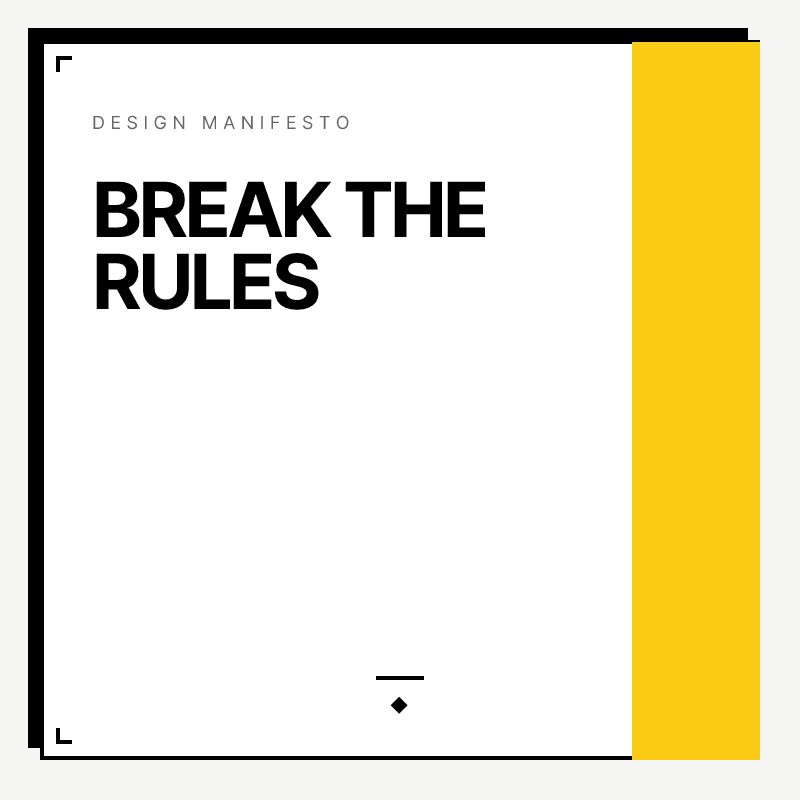
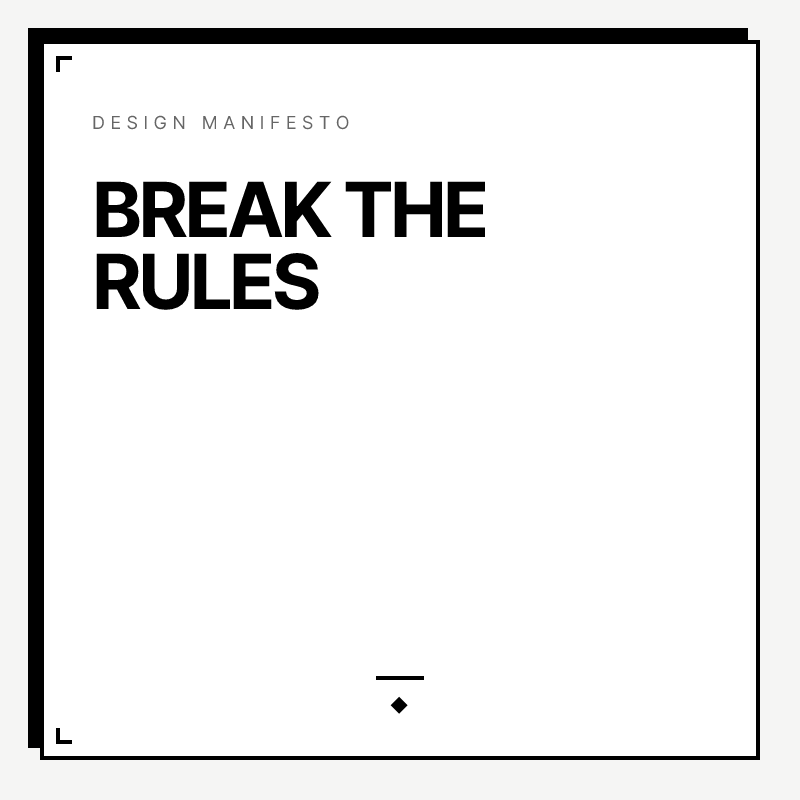
chore: sync

Changed region(s): [[0.7812, 0.0312, 0.9688, 0.9688]]

diff --git a/src/runtime/server/og-image/satori/plugins/unocss.ts b/src/runtime/server/og-image/satori/plugins/unocss.ts
@@ -1,6 +1,17 @@
 import type { VNode } from '../../../../types'
 import { defineSatoriTransformer } from '../utils'
 
+// Tailwind/UnoCSS breakpoints + social platform sizes
+const BREAKPOINTS: Record<string, number> = {
+  'sm': 640,
+  'md': 768,
+  'lg': 1000,
+  'xl': 1280,
+  '2xl': 1536,
+}
+
+const RESPONSIVE_PREFIX_RE = /^(sm|md|lg|xl|2xl):(.+)$/
+
 function safeSplit(s: string) {
   const [key, value] = s.split(':')
   return [String(key || '').trim(), String(value || '').trim()] satisfies [string, string]
@@ -11,58 +22,92 @@ export default defineSatoriTransformer({
   filter: (node: VNode) => !!node.props?.class,
   transform: async (node: VNode, ctx) => {
     const classes: string = node.props.class || ''
+    const renderWidth = Number(ctx.options.width) || 1200
     // normalise the styles
     const styles = node.props.style as Record<string, string> || {}
 
+    const vars: Record<string, string> = {
+      '--color-gray-50': '249 250 251',
+      '--color-gray-100': '243 244 246',
+      '--color-gray-200': '229 231 235',
+      '--color-gray-300': '209 213 219',
+      '--color-gray-400': '156 163 175',
+      '--color-gray-500': '107 114 128',
+      '--color-gray-600': '75 85 99',
+      '--color-gray-700': '55 65 81',
+      '--color-gray-800': '31 41 55',
+      '--color-gray-900': '17 24 39',
+      '--color-gray-950': '3 7 18',
+    }
+
+    const applyStyles = (inlineStyles: string[]) => {
+      inlineStyles.filter(s => s.startsWith('--'))
+        .forEach((s) => {
+          const [key, value] = safeSplit(s)
+          vars[key] = value
+        })
+      inlineStyles.filter(s => !s.startsWith('--'))
+        .forEach((s) => {
+          const [key, value] = safeSplit(s)
+          const camelCasedKey = key.replace(/-([a-z])/g, (_, letter) => letter.toUpperCase())
+          // we need to replace any occurances of a var key with the var values
+          // responsive styles should override base styles, so don't check if already set
+          styles[camelCasedKey] = value.replace(/var\((.*?)\)/g, (_, k) => vars[k.trim()])
+
+          // we need to replace this rgba syntax with either a regular rgb if opacity is 1
+          // rgb(59 130 246 / 1) -> rgba(59, 130, 246)
+          // rgba(59 130 246 / 0.5) -> rgba(59, 130, 246, 0.5)
+          if (styles[camelCasedKey] && styles[camelCasedKey].includes('/')) {
+            const [rgb, opacity] = styles[camelCasedKey].split('/')
+            if (rgb && opacity) {
+              if (opacity.trim() === '1)')
+                // eslint-disable-next-line regexp/optimal-quantifier-concatenation
+                styles[camelCasedKey] = rgb.replace(/(\d+) (\d+) (\d+).*/, (_, r, g, b) => `${r}, ${g}, ${b})`)
+              else
+                styles[camelCasedKey] = `${rgb.replace('rgb', 'rgba').replaceAll(' ', ', ')}${opacity.trim()}`
+            }
+          }
+        })
+    }
+
     const replacedClasses = new Set()
+
+    // First pass: apply base (non-responsive) classes
     for (const token of classes.split(' ').filter(c => c.trim())) {
+      if (RESPONSIVE_PREFIX_RE.test(token))
+        continue // Skip responsive classes in first pass
+
       const parsedToken = await ctx.unocss.parseToken(token)
       if (parsedToken) {
         const inlineStyles = String(parsedToken?.[0]?.[2]).split(';').filter(s => !!s?.trim())
-        const vars: Record<string, string> = {
-          '--color-gray-50': '249 250 251',
-          '--color-gray-100': '243 244 246',
-          '--color-gray-200': '229 231 235',
-          '--color-gray-300': '209 213 219',
-          '--color-gray-400': '156 163 175',
-          '--color-gray-500': '107 114 128',
-          '--color-gray-600': '75 85 99',
-          '--color-gray-700': '55 65 81',
-          '--color-gray-800': '31 41 55',
-          '--color-gray-900': '17 24 39',
-          '--color-gray-950': '3 7 18',
-        }
-        inlineStyles.filter(s => s.startsWith('--'))
-          .forEach((s) => {
-            const [key, value] = safeSplit(s)
-            vars[key] = value
-          })
-        inlineStyles.filter(s => !s.startsWith('--'))
-          .forEach((s) => {
-            const [key, value] = safeSplit(s)
-            const camelCasedKey = key.replace(/-([a-z])/g, (_, letter) => letter.toUpperCase())
-            // we need to replace any occurances of a var key with the var values, avoid replacing existing inline styles
-            if (!styles[camelCasedKey])
-              // @ts-expect-error untyped
-              styles[camelCasedKey] = value.replace(/var\((.*?)\)/g, (_, k) => vars[k.trim()])
-
-            // we need to replace this rgba syntax with either a regular rgb if opacity is 1
-            // rgb(59 130 246 / 1) -> rgba(59, 130, 246)
-            // rgba(59 130 246 / 0.5) -> rgba(59, 130, 246, 0.5)
-            if (styles[camelCasedKey] && styles[camelCasedKey].includes('/')) {
-              const [rgb, opacity] = styles[camelCasedKey].split('/')
-              if (rgb && opacity) {
-                if (opacity.trim() === '1)')
-                  // eslint-disable-next-line regexp/optimal-quantifier-concatenation
-                  styles[camelCasedKey] = rgb.replace(/(\d+) (\d+) (\d+).*/, (_, r, g, b) => `${r}, ${g}, ${b})`)
-                else
-                  styles[camelCasedKey] = `${rgb.replace('rgb', 'rgba').replaceAll(' ', ', ')}${opacity.trim()}`
-              }
-            }
-          })
+        applyStyles(inlineStyles)
         replacedClasses.add(token)
       }
     }
+
+    // Second pass: apply responsive classes if breakpoint is met
+    // Process in order: sm -> md -> lg -> xl -> 2xl (smallest to largest)
+    const breakpointOrder = ['sm', 'md', 'whatsapp', 'lg', 'xl', '2xl']
+    for (const bp of breakpointOrder) {
+      const breakpointWidth = BREAKPOINTS[bp]
+      if (renderWidth < breakpointWidth)
+        continue // Skip breakpoints larger than render width
+
+      for (const token of classes.split(' ').filter(c => c.trim())) {
+        const match = token.match(RESPONSIVE_PREFIX_RE)
+        if (!match || match[1] !== bp)
+          continue
+
+        const baseClass = match[2]
+        const parsedToken = await ctx.unocss.parseToken(baseClass)
+        if (parsedToken) {
+          const inlineStyles = String(parsedToken?.[0]?.[2]).split(';').filter(s => !!s?.trim())
+          applyStyles(inlineStyles)
+          replacedClasses.add(token)
+        }
+      }
+    }
+
     node.props.class = classes.split(' ').filter(c => !replacedClasses.has(c)).join(' ')
     node.props.tw = classes.split(' ').filter(c => !replacedClasses.has(c)).join(' ')
     node.props.style = styles

diff --git a/src/runtime/app/components/Templates/Community/SaaS.vue b/src/runtime/app/components/Templates/Community/SaaS.vue
@@ -1,0 +1,68 @@
+<script setup lang="ts">
+/**
+ * @credits Basecamp-inspired SaaS template
+ */
+import { useSiteConfig } from '#site-config/app/composables'
+
+const props = withDefaults(defineProps<{
+  title?: string
+  icon?: string
+  siteName?: string
+  theme?: string
+  image?: string
+}>(), {
+  theme: '#6366f1',
+})
+
+const siteConfig = useSiteConfig()
+
+const title = props.title || siteConfig.title || 'Build something amazing'
+const siteName = props.siteName || siteConfig.name || 'Acme'
+</script>
+
+<template>
+  <div class="w-full h-full flex flex-col relative overflow-hidden" :style="{ background: theme }">
+    <!-- Main content area - full height -->
+    <div class="flex-1 flex flex-col p-7 relative">
+      <!-- Left side: Title + Site name -->
+      <div class="flex flex-col justify-between h-full w-full lg:w-[50%]">
+        <!-- Title -->
+        <h1
+          class="font-black leading-[1.08] tracking-tight text-white text-[56px] line-clamp-3"
+          style="display: block; font-style: italic; text-shadow: 0 2px 10px rgba(0,0,0,0.2);"
+        >
+          {{ title }}
+        </h1>
+
+        <!-- Logo / Site name -->
+        <div class="flex flex-row items-center gap-3">
+          <div v-if="icon" class="flex items-center justify-center rounded-full bg-white/20 w-14 h-14">
+            <span class="text-3xl text-white">{{ icon }}</span>
+          </div>
+          <span class="font-black text-white text-[56px]">{{ siteName }}</span>
+        </div>
+      </div>
+
+      <!-- Product screenshot - absolute positioned, cut off on right -->
+      <div
+        v-if="image"
+        class="absolute flex flex-col bg-[#1a1a1a] rounded-xl overflow-hidden shadow-2xl hidden lg:flex"
+        style="right: -120px; top: 20px; bottom: 20px; width: 55%;"
+      >
+        <!-- Browser toolbar -->
+        <div class="flex flex-row items-center bg-[#2d2d2d] px-4 py-3">
+          <div class="w-3 h-3 rounded-full bg-[#ff5f57]" />
+          <div class="w-3 h-3 rounded-full bg-[#febc2e] ml-2" />
+          <div class="w-3 h-3 rounded-full bg-[#28c840] ml-2" />
+        </div>
+        <!-- Screenshot area -->
+        <div class="flex-1 flex bg-[#f5f5f5]">
+          <img
+            :src="image"
+            class="w-full h-full object-cover object-left-top"
+          >
+        </div>
+      </div>
+    </div>
+  </div>
+</template>

diff --git a/src/runtime/app/components/Templates/Community/Pergel.vue b/src/runtime/app/components/Templates/Community/Pergel.vue
@@ -33,7 +33,7 @@ const title = computed(() => props.title.slice(0, 60))
       </defs>
     </svg>
 
-    <div class="max-w-[60%] pl-16 relative z-10">
+    <div class="max-w-full lg:max-w-[60%] pl-8 lg:pl-16 pr-8 relative z-10">
       <p v-if="headline" class="uppercase text-[22px] text-amber-400 mb-3 font-semibold tracking-wider">
         {{ headline }}
       </p>
@@ -45,7 +45,7 @@ const title = computed(() => props.title.slice(0, 60))
       </p>
     </div>
 
-    <svg class="absolute top-[250px] right-[190px]" width="241" height="184" viewBox="0 0 241 184" fill="none" xmlns="http://www.w3.org/2000/svg">
+    <svg class="absolute top-[250px] right-[190px] hidden lg:flex" width="241" height="184" viewBox="0 0 241 184" fill="none" xmlns="http://www.w3.org/2000/svg">
       <g filter="url(#filter0_ddd_563_6)">
         <path d="M204.852 126.822C204.852 127.098 204.677 128.114 202.583 129.748C200.551 131.335 197.276 133.034 192.613 134.687C183.325 137.979 169.872 140.62 153.875 142.19C137.92 143.755 120.334 144.166 103.363 143.367C86.3776 142.566 70.8801 140.594 58.8213 137.738C52.7901 136.31 47.8449 134.713 44.0617 133.037C40.1988 131.325 37.891 129.679 36.7621 128.335C36.2309 127.702 36.0703 127.267 36.0227 127.035C35.9829 126.842 35.9842 126.629 36.1192 126.305C36.459 125.488 37.6413 124.038 40.7165 122.28C46.7614 118.823 57.5073 115.641 71.9244 113.359C86.2251 111.096 103.109 109.879 120.426 109.879" stroke="url(#paint0_angular_563_6)" stroke-width="8" />
       </g>

diff --git a/src/runtime/app/components/Templates/Community/Nuxt.vue b/src/runtime/app/components/Templates/Community/Nuxt.vue
@@ -45,7 +45,7 @@ const description = computed(() => (props.description || '').slice(0, 200))
       </defs>
     </svg>
 
-    <div class="max-w-[700px] pl-[100px]">
+    <div class="max-w-[700px] pl-6 lg:pl-[100px]">
       <p v-if="headline" class="uppercase text-[24px] text-[#00DC82] mb-4 font-semibold">
         {{ headline }}
       </p>
@@ -57,7 +57,7 @@ const description = computed(() => (props.description || '').slice(0, 200))
       </p>
     </div>
     <svg
-      class="absolute top-[160px] right-[90px]"
+      class="absolute top-[160px] right-[90px] hidden lg:flex"
       width="340"
       height="340"
       viewBox="0 0 340 340"

diff --git a/src/runtime/app/components/Templates/Community/Frame.vue b/src/runtime/app/components/Templates/Community/Frame.vue
@@ -39,7 +39,7 @@ withDefaults(defineProps<{
     <div class="absolute bottom-4 left-4 w-8 h-8 border-l-2 border-b-2 border-white/30" />
     <div class="absolute bottom-4 right-4 w-8 h-8 border-r-2 border-b-2 border-white/30" />
 
-    <div class="flex flex-col items-center text-center px-20 relative z-10">
+    <div class="flex flex-col items-center text-center px-8 lg:px-20 relative z-10">
       <h1 class="flex items-center gap-5 text-[72px] font-bold leading-tight tracking-tight" style="display: block; line-clamp: 2; text-overflow: ellipsis; text-shadow: 0 4px 30px rgba(0,0,0,0.5);">
         <Icon
           v-if="icon"

diff --git a/scripts/generate-template-snapshots.ts b/scripts/generate-template-snapshots.ts
@@ -96,6 +96,14 @@ const templates: { name: string, props: Record<string, any> }[] = [
       publication: 'The Daily Chronicle',
     },
   },
+  {
+    name: 'SaaS',
+    props: {
+      title: 'Build better products, ship faster, delight customers.',
+      siteName: 'Acme',
+      image: 'https://images.unsplash.com/photo-1551288049-bebda4e38f71?w=800&q=80',
+    },
+  },
 ]
 
 const baseUrl = process.argv[2] || 'http://localhost:3000'

diff --git a/src/runtime/app/components/Templates/Community/Brutalist.vue b/src/runtime/app/components/Templates/Community/Brutalist.vue
@@ -28,7 +28,7 @@ withDefaults(defineProps<{
     >
       <!-- Accent bar -->
       <div
-        class="absolute w-32"
+        class="absolute w-32 hidden lg:flex"
         :style="{ background: accent, top: '-2px', right: '-4px', bottom: '-4px' }"
       />
 
